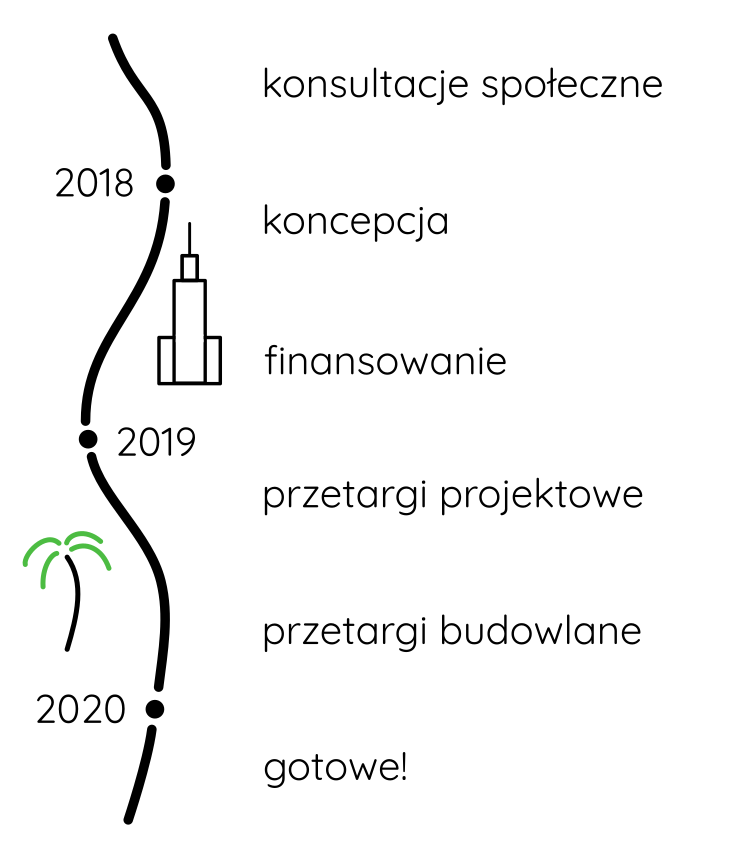
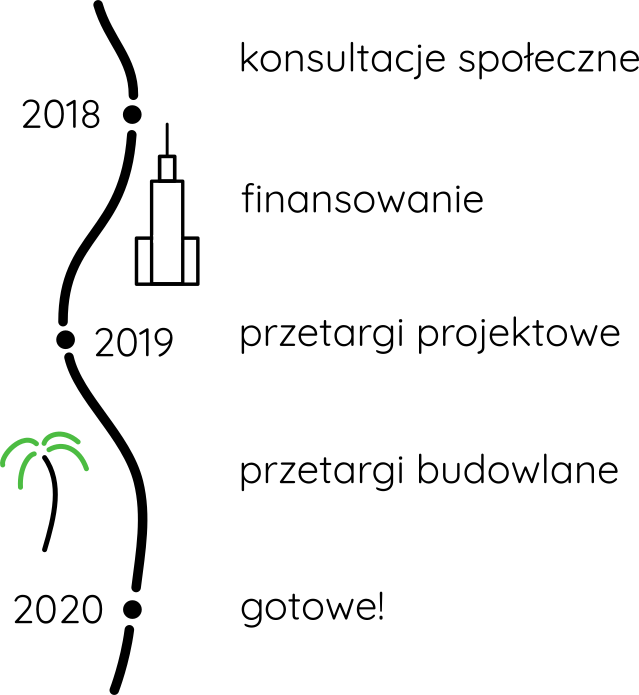
even more copywriting

diff --git a/index.html b/index.html
@@ -9,7 +9,7 @@
     <meta name="description" content="">
     <meta name="author" content="">
 
-    <title>Warszawa Plus — Strona główna</title>
+    <title>Warszawa+ — Strona główna</title>
 
     <!-- Bootstrap Core CSS -->
     <link href="css/bootstrap.min.css" rel="stylesheet">
@@ -104,7 +104,7 @@
                 <hr class="section-heading-spacer">
                 <div class="clearfix"></div>
                 <h2 class="section-heading">Stolica wysokiej jakości</h2>
-                <p class="lead"><strong>Warszawa<span class="warsaw-green">+</span></strong> to kampania na rzecz urzeczywistnienia zmian poprawiających dostępność oraz jakość życia w ścisłym centrum Warszawy. Mimo, że od dwudziestu lat Urząd Miejski zleca kolejne opracowania, analizy i koncepcje “cywilizujące” Aleje Jerozolimskie i Marszałkowską nic nie zapowiada, aby się to stało w najbliższym czasie. Tracą na tym wszyscy warszawianie — stojąc w korkach, przeciskając się przez niewygodne i wąskie chodniki, wdychając smog czy rezygnując z jazdy rowerem po niebezpiecznych ulicach.</p>
+                <p class="lead"><strong>Warszawa<span class="warsaw-green">+</span></strong> to kampania na rzecz zmian poprawiających dostępność oraz jakość życia w ścisłym centrum Warszawy. Chcemy do 2020 roku przekształcić ulicę Marszałkowską i Aleje Jerozolimskie tak, aby stały się przestrzenią przyjazną dla okolicznych mieszkańców, a przestały być barierą dla pieszych, rowerzystów i osób z niepełnosprawnością. Mniej korków, smogu, hałasu, walki o miejsca parkingowe — zyskają na tym wszyscy warszawiacy.</p>
             </div>
             <div class="col-lg-5 col-lg-offset-2 col-sm-6">
                 <img class="img-responsive" src="img/mapa-warszawy-plus.png"
@@ -123,20 +123,21 @@
             <div class="col-lg-5 col-lg-offset-1 col-sm-push-6  col-sm-6">
                 <hr class="section-heading-spacer">
                 <div class="clearfix"></div>
-                <h2 class="section-heading">Oś Warszawy w ludzkiej skali</h2>
-                <p>Lista postulatów <strong>Warszawy<span class="warsaw-green">+</span></strong> nie jest długa:</p>
+                <h2 class="section-heading">Przez Śródmieście po ludzku</h2>
+                <p>Na co zasługują dwie osie przecinające centrum?</p>
                 <ul>
-                    <li>Szerokie chodniki i platformy przystankowe</li>
+                    <li>Na szerokie chodniki i platformy przystankowe</li>
                     <li>Przejścia dla pieszych w poziomie jezdni przez wszystkie skrzyżowania i do każdego przystanku
                         tramwajowego
                     </li>
+                    <li>Uprzywilejowanie komunikacji zbiorowej</li>
                     <li>Wysokiej jakości drogi dla rowerów umożliwiające bezpieczny i szybki dojazd do centrum</li>
                     <li>Więcej zieleni pochłaniającej zanieczyszczenia i tłumiącej hałas</li>
                 </ul>
             </div>
             <div class="col-lg-5 col-sm-pull-6 col-sm-6">
                 <img class="img-responsive" src="img/Zawiszy-166-03.jpg"
-                     alt="Smog nad Rondem Zawiszy">
+                     alt="Wizualizacja możliwego zagospodarowania przestrzeni na pl. Zawiszy">
             </div>
         </div>
 
@@ -153,7 +154,7 @@
                 <hr class="section-heading-spacer">
                 <div class="clearfix"></div>
                 <h2 class="section-heading">Przed końcem świata</h2>
-                <p>Powyższe propozycje były głoszone wielokrotnie przez różne środowiska, wszystkie znajdują się w oficjalnych dokumentach strategicznych miasta, ich wizualizacje oglądamy przy każdej kolejnej koncepcji architektonicznej na centrum Warszawy. To, co chcemy zmienić, to nadanie miejskim obietnicom terminu wykonalności. Chcemy uzyskać konkretny harmonogram, według którego mieszkańcy będą mogli kontrolować proces zmian i rozliczać władze ze złożonych obietnic.</p>
+                <p>Powyższe propozycje były zgłaszane wielokrotnie przez różne środowiska, wszystkie znajdują się w oficjalnych dokumentach strategicznych miasta, ich wizualizacje oglądamy przy każdej kolejnej koncepcji architektonicznej na centrum Warszawy. To, co chcemy zmienić, to nadanie miejskim obietnicom terminu wykonalności. Chcemy uzyskać konkretny harmonogram, według którego mieszkańcy będą mogli kontrolować proces zmian i rozliczać władze ze złożonych obietnic. Warszawiacy jeszcze przed wyborami samorządowymi w 2018 roku mogą liczyć na projekt oraz zabezpieczenie finansowe, tak aby przed 2020 rokiem wszystko było gotowe!</p>
             </div>
             <div class="col-lg-5 col-lg-offset-2 col-sm-6">
                 <img class="img-responsive" src="img/roadmap.png"
@@ -175,11 +176,11 @@
                 <hr class="section-heading-spacer">
                 <div class="clearfix"></div>
                 <h2 class="section-heading">Smog Warszawski w odwrocie</h2>
-                <p class="lead">Zanieczyszczenie powietrza jest od wielu lat problemem Warszawy, który ostatniej zimy został też zauważony przez władze. Darmowe przejazdy komunikacją miejską w wybranych dniach roku nie są jednak wystarczającym rozwiązaniem. Aby zredukować zanieczyszczenia generowane przez transport indywidualny, mieszkańcy Warszawy potrzebują spójnej sieci dróg rowerowych i wygodnej infrastruktury pieszej, które w połączeniu z transportem publicznym stworzą realną alternatywę dla poruszania się autem. </p>
+                <p class="lead">Szybsza komunikacja miejska, ułatwione podróże piesze i możliwość bezpiecznego dojazdu rowerem do centrum to najskuteczniejsze sposoby na ograniczenie smogu, za który w Warszawie w ponad 70% odpowiada ruch samochodowy. Dodatkowe szpalery krzaków i drzew absorbując zanieczyszczenia dodatkowo pomogą w poprawie jakości powietrza, którym warszawiacy codziennie oddychają.</p>
             </div>
             <div class="col-lg-5 col-sm-pull-6 col-sm-6">
                 <img class="img-responsive" src="img/smog_daszynskiego.jpg"
-                     alt="Lotnicze zdjęcie centrum warszawy ze smogiem">
+                     alt="Smog nad Rondem Zawiszy">
             </div>
         </div>
 
@@ -224,7 +225,7 @@
                 <hr class="section-heading-spacer">
                 <div class="clearfix"></div>
                 <h2 class="section-heading">Pieszy to bardzo ważna osoba</h2>
-                <p class="lead">Niemal dwie trzecie podróży w Warszawie są — przynajmniej częściowo — podróżami pieszymi. Mimo tych statystyk, potrzeby pieszych są podczas planowania i projektowania infrastruktury odsuwane na dalszy plan. Poprawa sytuacji kierowców lub rowerzystów często odbywa się kosztem przestrzeni dla pieszych, co powoduje konflikty między tymi grupami i rodzi wzajemną niechęć. <strong>Warszawa<span class="warsaw-green">+</span></strong> zakłada utworzenie wygodnego korytarza transportowego przez centrum miasta, który zapobiegnie tym problemom.</p>
+                <p class="lead">Śródmieście Warszawy pod względem dostępności dla pieszych i osób z niepełnosprawnością jest ewenementem w skali Europejskiej. Awaria podnośnika w przejściu podziemnym dla osoby z wózkiem dziecięcym lub na wózku inwalidzkim oznacza nawet dwa kilometry dodatkowego spaceru! <strong>Warszawa<span class="warsaw-green">+</span></strong> to komplet przejść dla pieszych w poziomie jezdni na każdym skrzyżowaniu.</p>
             </div>
             <div class="col-lg-5 col-sm-pull-6  col-sm-6">
                 <img class="img-responsive" src="img/piesi-przejscie.jpg"
@@ -248,7 +249,7 @@
                 <hr class="section-heading-spacer">
                 <div class="clearfix"></div>
                 <h2 class="section-heading">Rowerem do centrum. Nareszcie.</h2>
-                <p class="lead">Mimo dziesiątek lat budowy dróg dla rowerów nie da się bezpiecznie i wygodnie wjechać rowerem do Śródmieścia i nic nie zapowiada, aby to się w najbliższym czasie zmieniło. Budowa wysokiej jakości dróg dla rowerów od Puławskiej do Placu Wilsona i od Ronda Wiatraczna do Placu Zawiszy otworzy centrum dla wszystkich warszawian, nie tylko tych którzy nie boją się jeździć rowerem między pędzącymi samochodami.</p>
+                <p class="lead">Mimo dziesiątek lat budowy dróg dla rowerów nie da się bezpiecznie i wygodnie wjechać rowerem do Śródmieścia i nic nie zapowiada, aby to się w najbliższym czasie zmieniło. Budowa wysokiej jakości dróg dla rowerów od Puławskiej do Placu Wilsona i od Ronda Wiatraczna do Placu Zawiszy otworzy centrum dla wszystkich warszawiaków, nie tylko tych którzy nie boją się jeździć rowerem między pędzącymi samochodami.</p>
             </div>
             <div class="col-lg-5 col-lg-offset-2 col-sm-6">
                 <img class="img-responsive" src="img/swietocykliczne2012-7303.jpg" alt="">
@@ -297,9 +298,9 @@
                 <hr class="section-heading-spacer">
                 <div class="clearfix"></div>
                 <h2 class="section-heading">Kontakt</h2>
-                <p>Karol Mocniak</p>
                 <ul>
-                    <li></li>
+                    <li><a href="mailto:kontakt@warszawaplus.org">kontakt@warszawaplus.org</a></li>
+                    <li>+48 790 722 751</li>
                 </ul>
                 <ul class="list-inline" style="font-size: 30px;">
                     <li>
@@ -312,9 +313,6 @@
                         <a href="#"><i class="fa fa-google-plus-square"></i></a>
                     </li>
                 </ul>
-            </div>
-            <div class="col-lg-5 col-lg-offset-2 col-sm-6">
-                <img class="img-responsive" src="img/swietocykliczne2012-7303.jpg" alt="">
             </div>
         </div>
 

diff --git a/css/landing-page.css b/css/landing-page.css
@@ -140,7 +140,7 @@ h6 {
     margin-top: 0;
 }
 
-footer a i {
+a i.fa {
     color: #333;
 }
 
